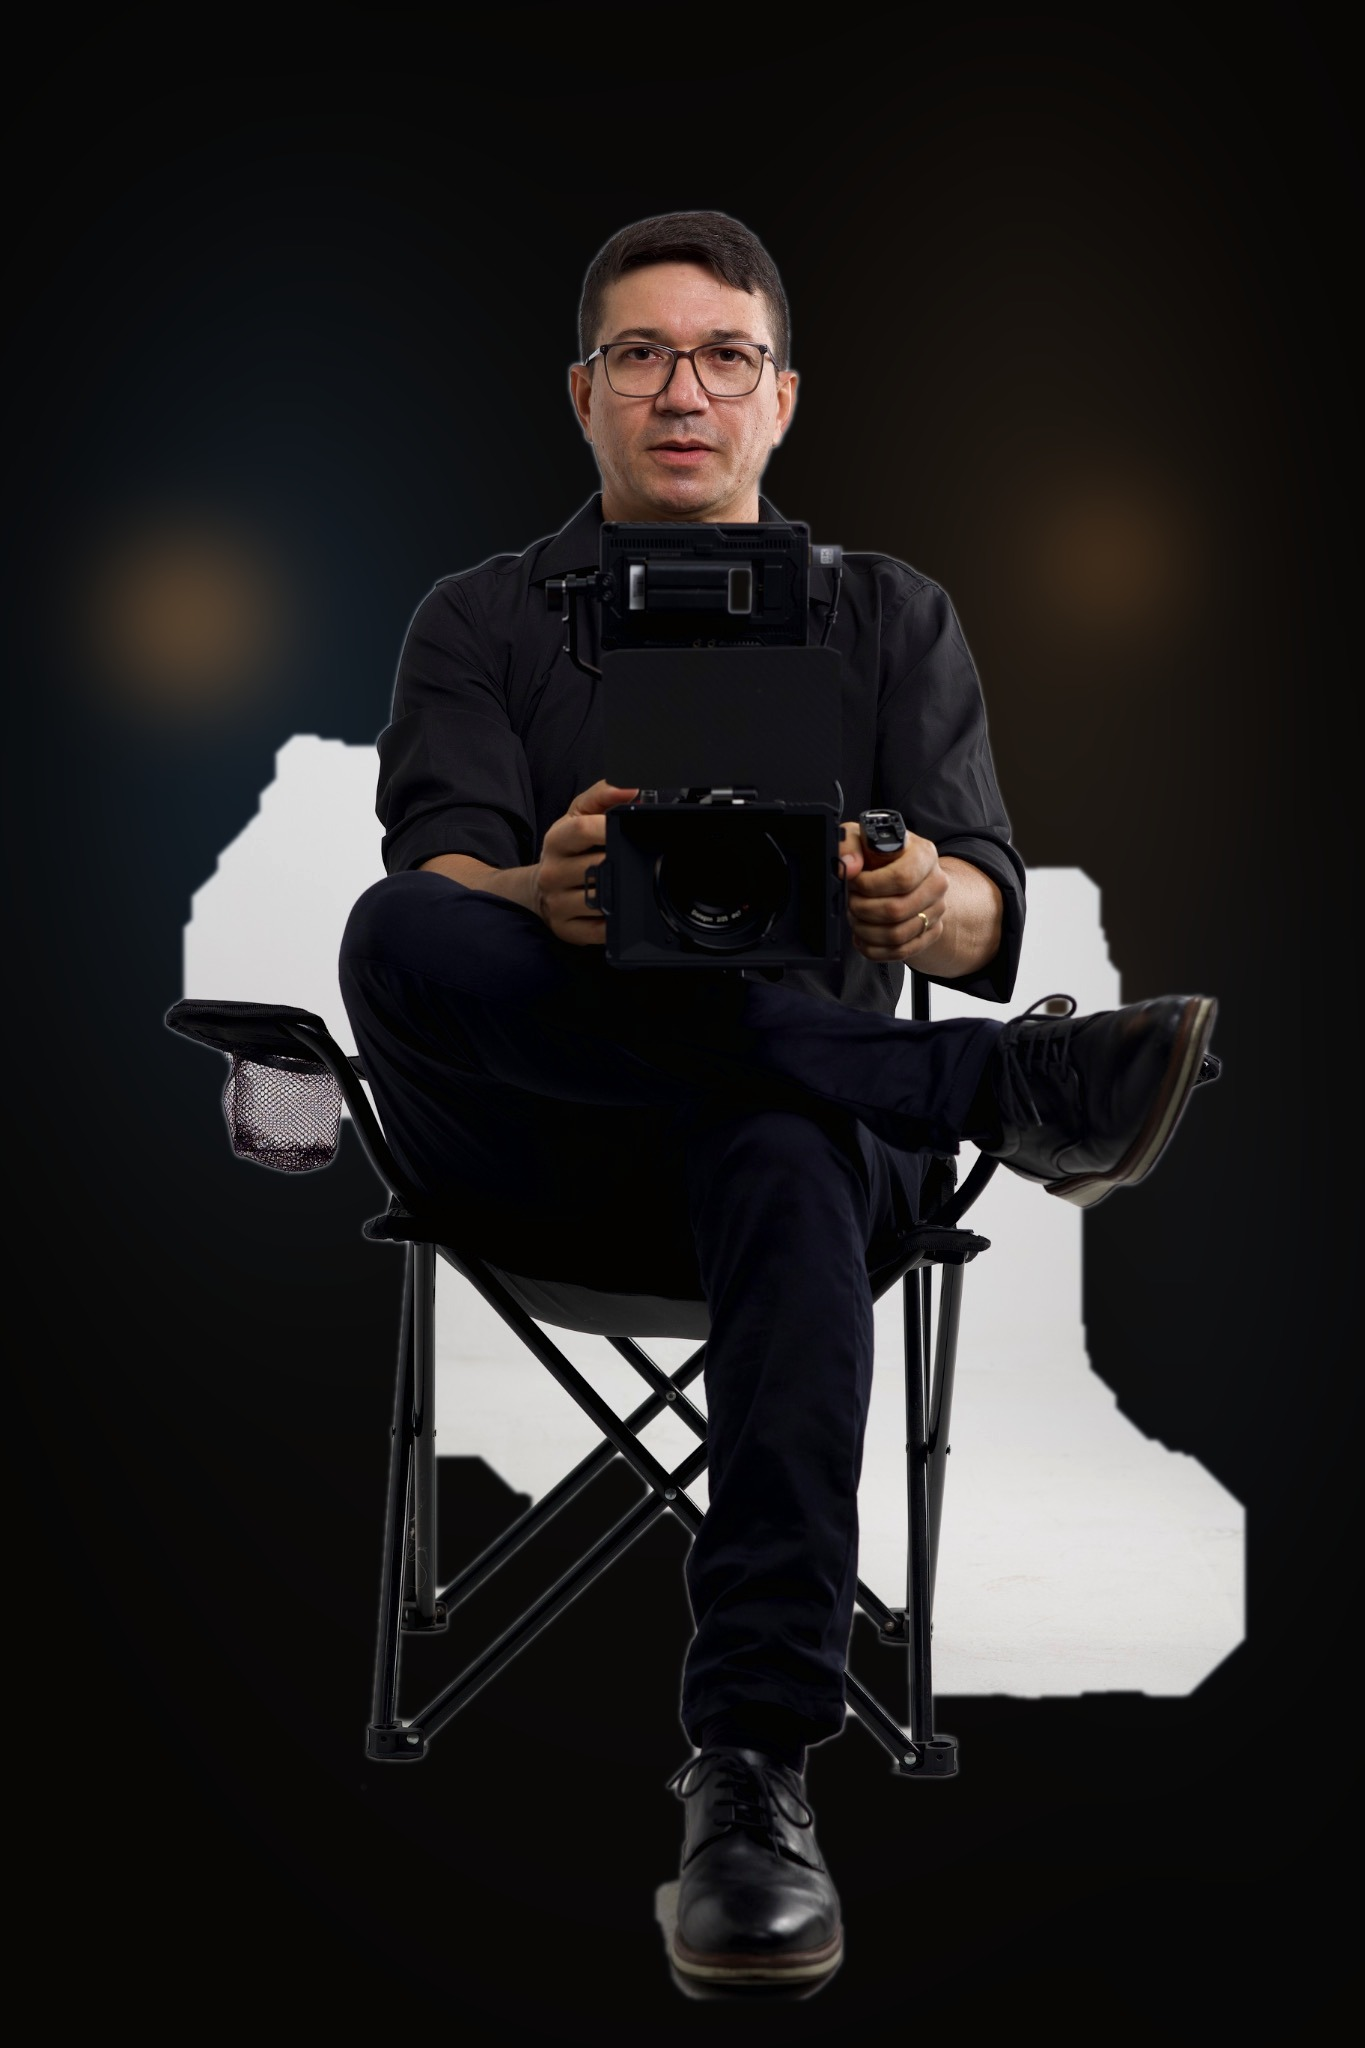
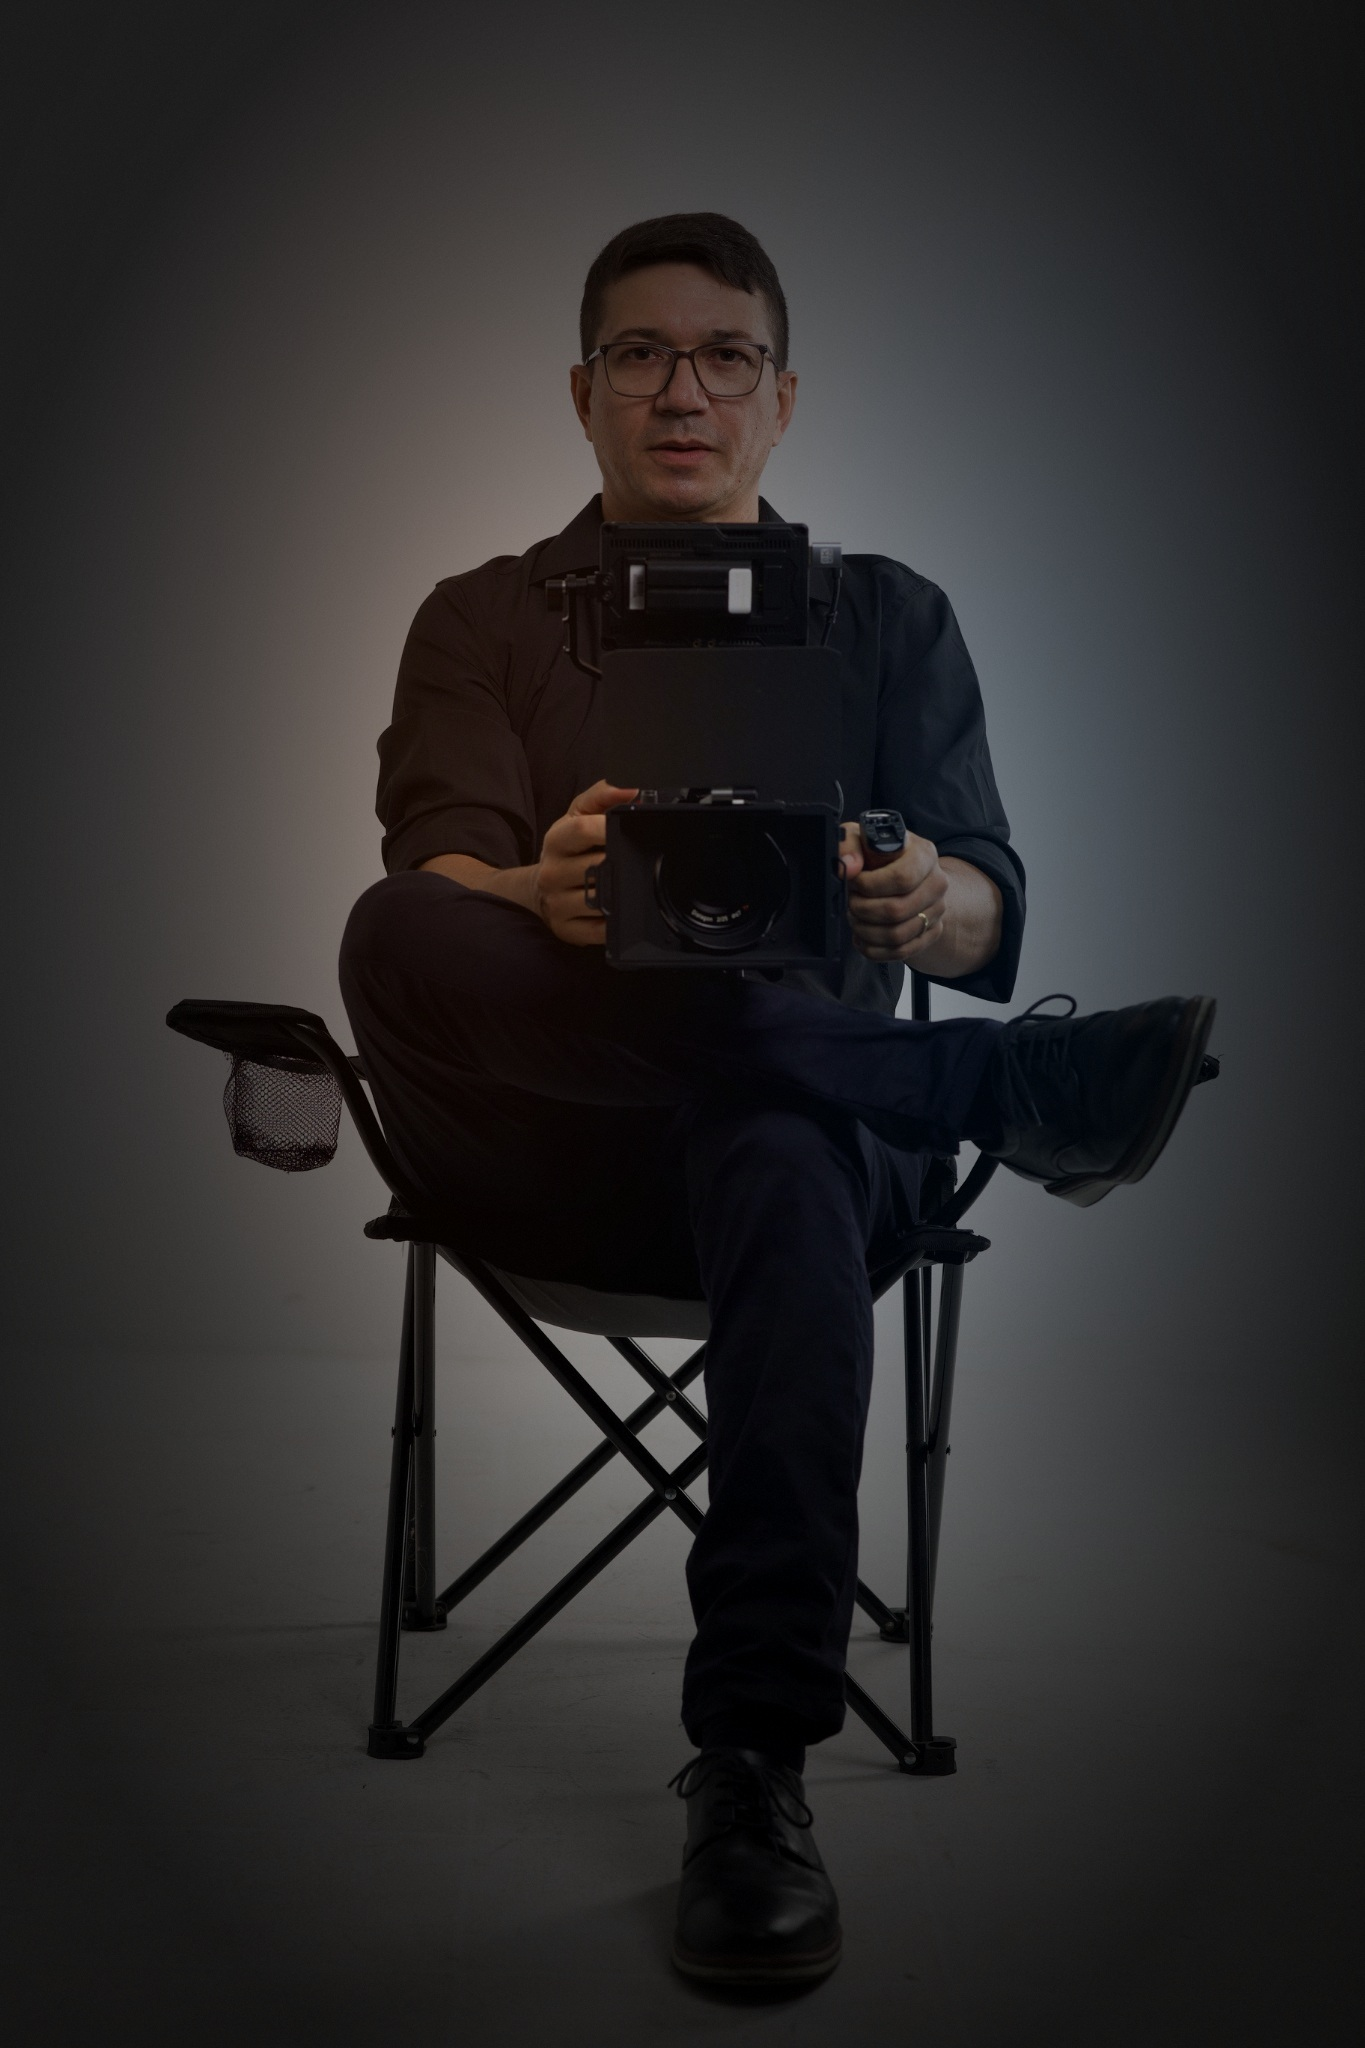
Add files via upload
V1.2 corrigida - foto cinematográfica e videoclipes

diff --git a/README.md b/README.md
@@ -1,10 +1,13 @@
-# Kleber Chaar / Cine 4 Filmes — V1.2
+# Kleber Chaar / Cine 4 Filmes — V1.2 corrigida
 
 - Hero em vídeo autoplay/mute/loop.
-- Seção Sobre com retrato cinematográfico real do filmmaker.
-- Fundo da foto tratado para visual de estúdio cinematográfico, com recorte e luzes de recorte.
-- Portfólio com 12 trabalhos.
-- Categoria Videoclipes com 3 trabalhos curados na Home.
-- Fallback local para IMOB 2026, evitando thumbnail quebrada.
+- Seção Sobre com a fotografia original de Kleber Chaar preservada.
+- Tratamento cinematográfico da fotografia sem recorte automático agressivo.
+- Portfólio com 12 trabalhos principais.
+- Categoria Videoclipes com 3 trabalhos curados:
+  - Sayonara — Mais que Paixão
+  - Delinquentes — Carro Prata
+  - Sayonara — La Cumbia Sensual
+- Fallback local para IMOB 2026.
 - Filtros responsivos.
 - Pronto para Cloudflare Pages.
